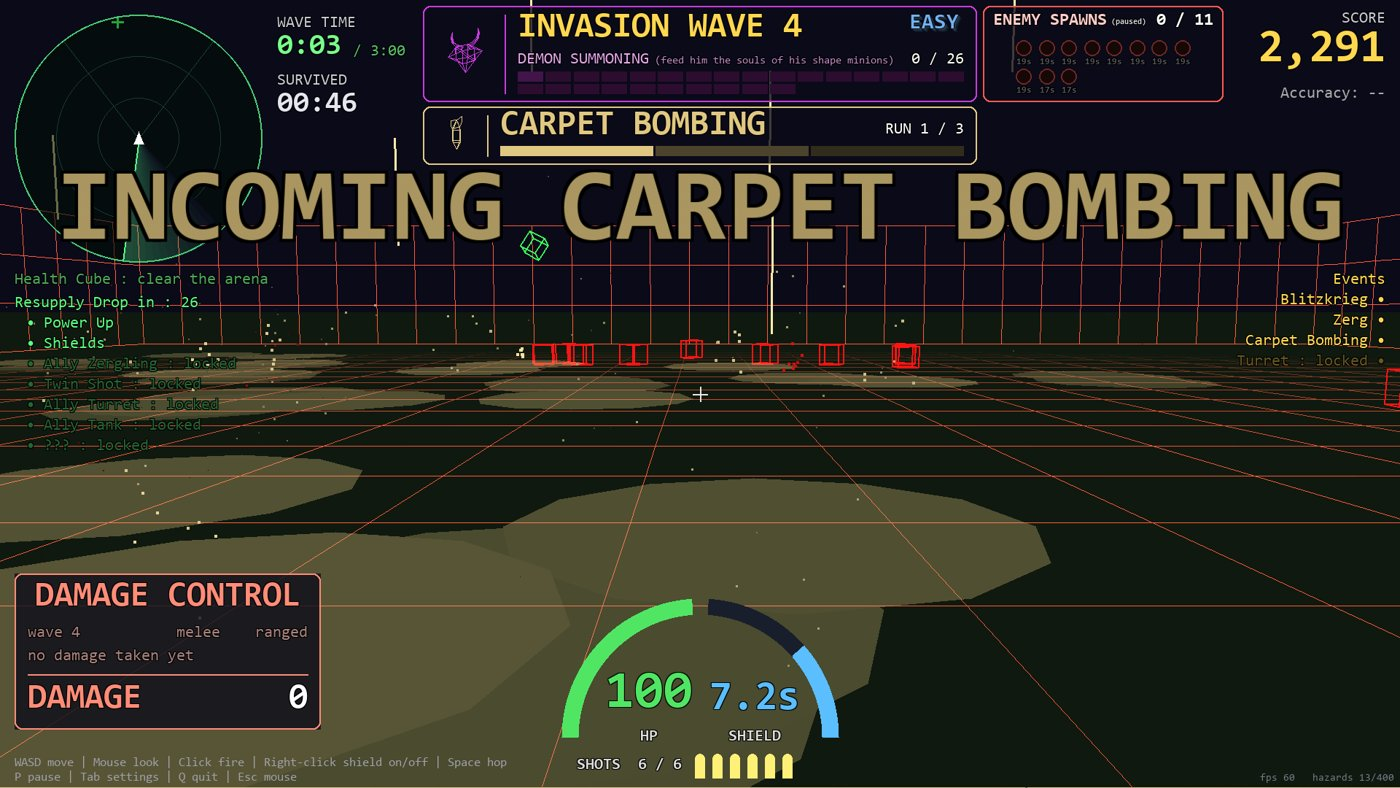
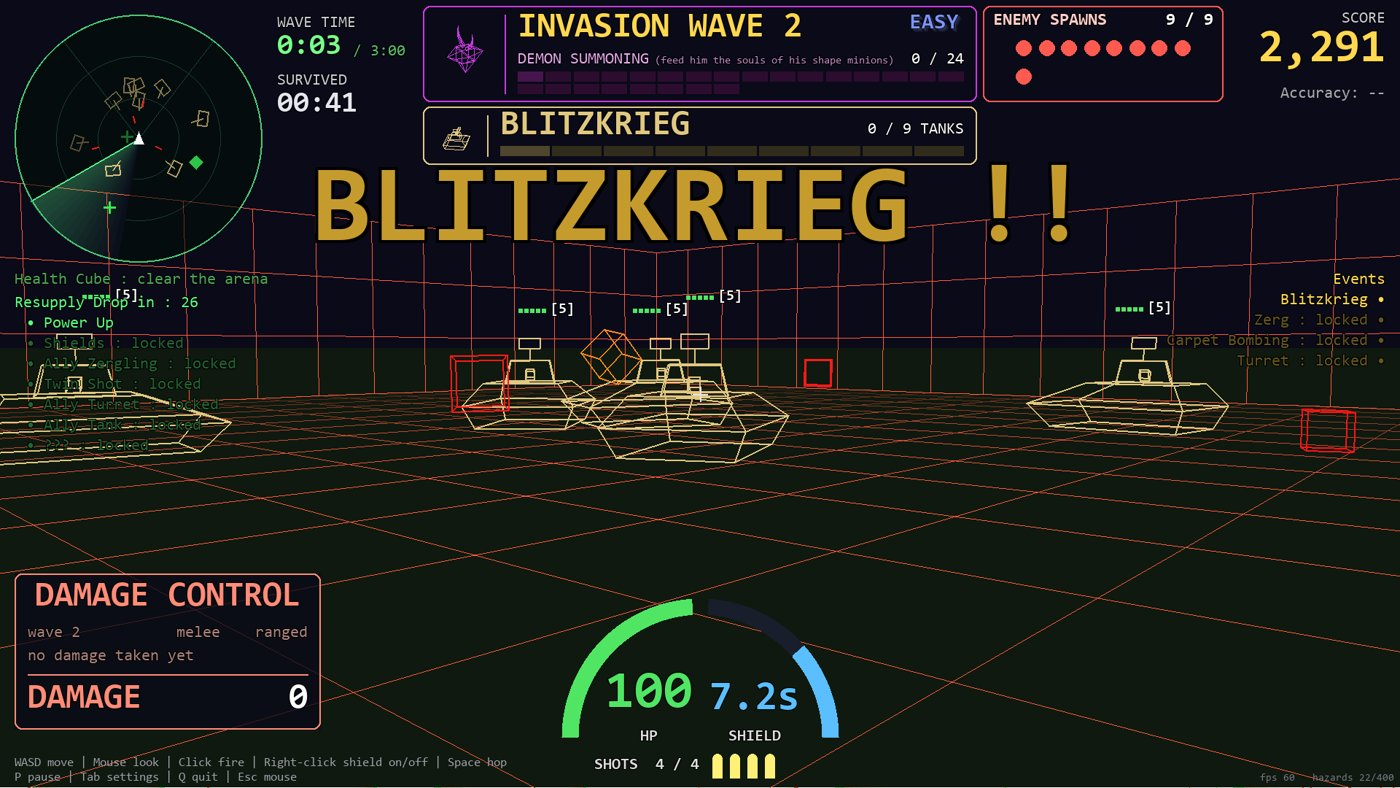
Use the Blitzkrieg screenshot as Wireframe Warfare picture 3
Claude-Session: https://claude.ai/code/session_017dohG4WmsG37hz5Nh6vmYN

diff --git a/index.html b/index.html
@@ -250,7 +250,7 @@
         <div class="shots">
           <div class="shot"><img src="images/wireframe-warfare-1.jpg" alt="Wireframe Warfare title screen with a hostile identification card for the Cone enemy" loading="lazy"></div>
           <div class="shot"><img src="images/wireframe-warfare-2.jpg" alt="Fighting a giant yellow wireframe demon in the arena during Invasion Wave 1" loading="lazy"></div>
-          <div class="shot"><img src="images/wireframe-warfare-3.jpg" alt="A carpet bombing run warning on Invasion Wave 4, with red cubes advancing across the arena" loading="lazy"></div>
+          <div class="shot"><img src="images/wireframe-warfare-3.jpg" alt="A Blitzkrieg event on Invasion Wave 2, with a line of wireframe tanks rolling across the arena" loading="lazy"></div>
         </div>
         <div class="actions"><a class="btn" href="wireframe-warfare-guide/">Read the player's guide</a></div>
       </article>
